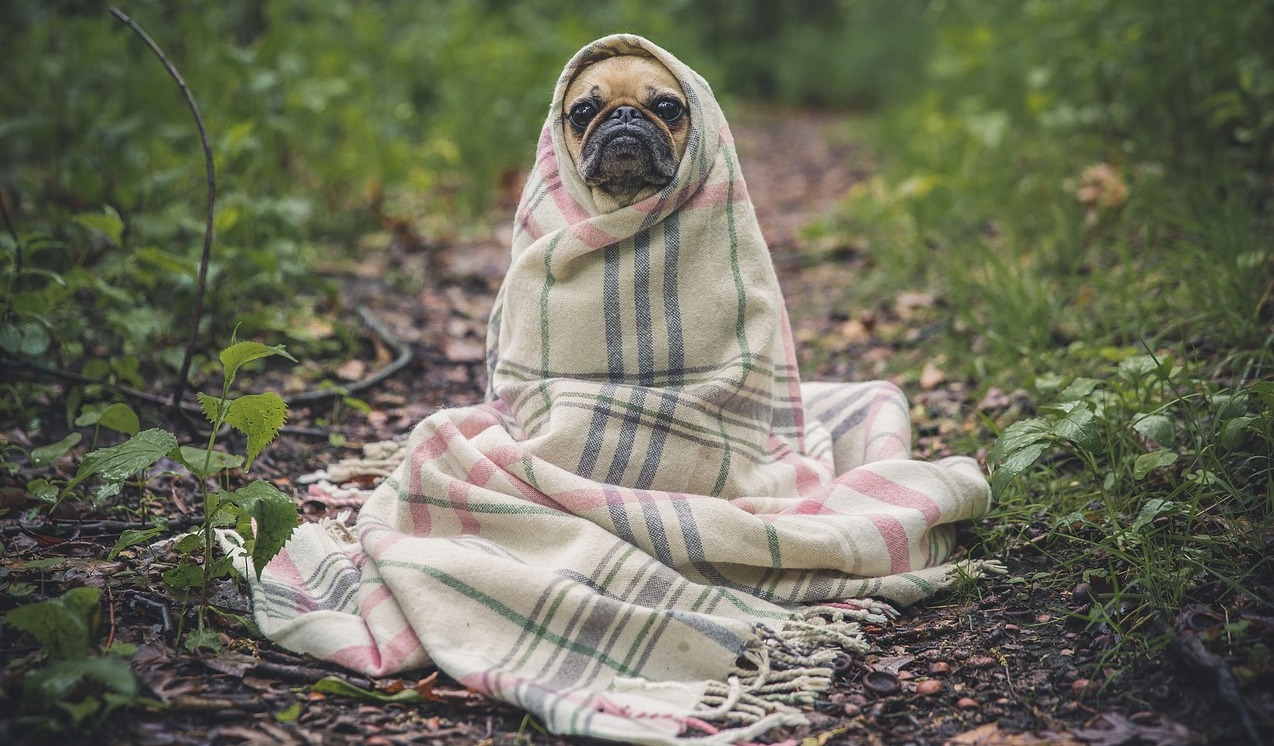
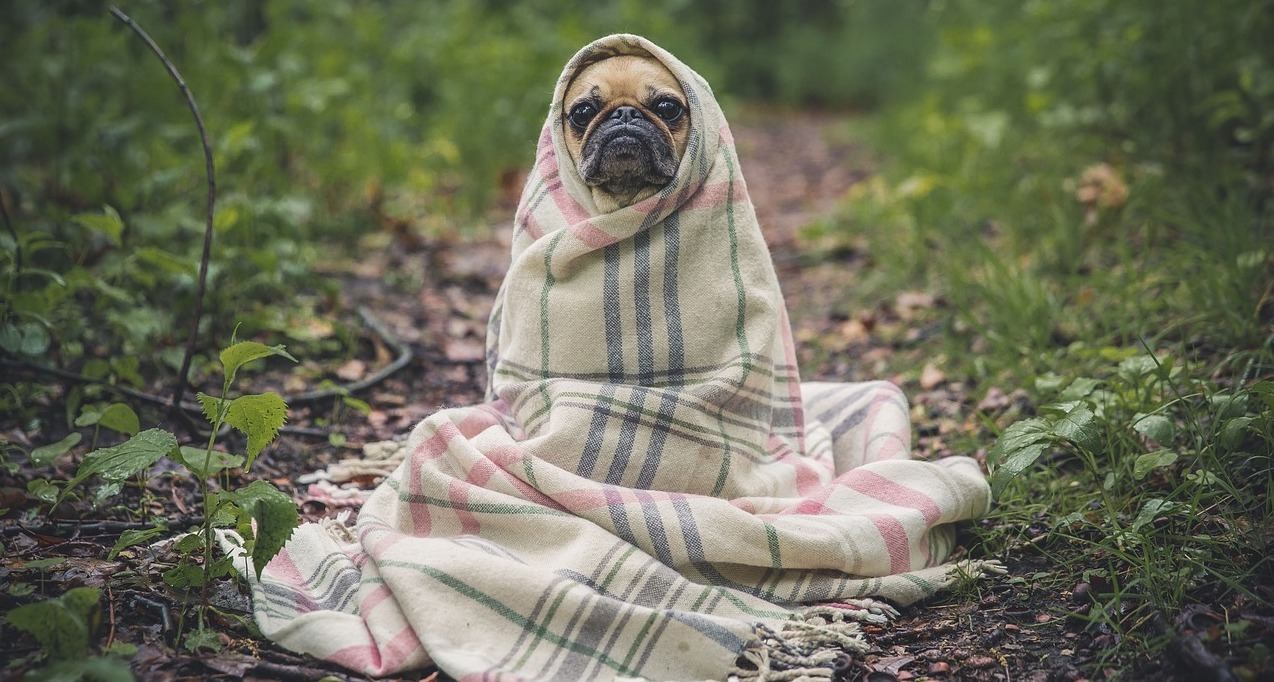
Adjusting hero background image size

diff --git a/app/styles/components/hero.scss b/app/styles/components/hero.scss
@@ -4,7 +4,7 @@
   justify-content: center;
   background: url('../images/pug.jpg') no-repeat center top;
   background-size: cover;
-  height: 50vh;
+  height: 100%;
   color: $c-white;
 
   &__main {
